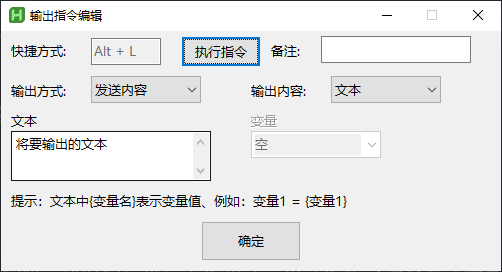
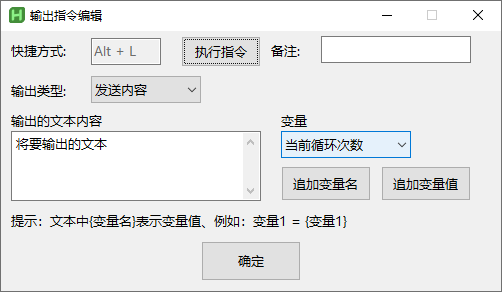
更新指令文档

diff --git a/Web/指令手册.md b/Web/指令手册.md
@@ -32,12 +32,6 @@
 ### 手柄按键说明
 - 使用前需安装 **vJoy**，详情查看「手柄功能指令」。
 
-### 勾选规则
-- **特殊按键**：Shift, Alt, Ctrl, Win, LShift, RShift, LAlt, RAlt, LCtrl, RCtrl, LWin, RWin
-- **普通按键**：除特殊按键以外的其他按键
-- **规则 1**：特殊按键可 **多选或不选**；普通按键只能 **单选或不选**。
-- **规则 2**：手柄按钮、摇杆只能单独选。
-
 ### 键盘按键检测
 1. 点击输入框。
 2. 按下目标按键/组合键。
@@ -196,14 +190,10 @@
 2. **粘贴**：使用Ctrl+V组合键粘贴内容。
 3. **Win粘贴**：调用Win系统接口粘贴内容。
 4. **临时提示**：使用ToolTip在鼠标指针旁显示内容（默认显示5s）。
-5. **复制到剪切板**：将输出内容复制到剪切板。
-6. **软件弹窗**：通过软件弹窗显示内容。
-7. **系统语音**：通过语音播输出内容。
-
-### 输出内容
-1. **文本**：只输出文本中的信息。
-2. **变量**：只输出变量值。
-3. **文本 + 变量**：输出文本内容 + 变量内容。
+5. **指令窗口**：将内容输出到指令显示窗口。
+6. **复制到剪切板**：将输出内容复制到剪切板。
+7. **软件弹窗**：通过软件弹窗显示内容。
+8. **系统语音**：通过语音播输出内容。
 
 ### 小技巧
 文本中可用 `{变量名}` 表示对应变量值。
@@ -243,13 +233,16 @@
 3. **自由贴**：调用RMT软件自由贴指令，将剪切板中的图片或文本贴在桌面上。
 4. **开启指令显示**：勾选指令显示开关，窗口显示软件运行的指令。
 5. **关闭指令显示**：取消勾选指令显示开关。
-6. **启用键鼠**：恢复键盘鼠标的正常输入（需要管理员身份运行软件）。
-7. **禁用键鼠**：禁用键盘鼠标的输入（需要管理员身份运行软件）。
-8. **休眠**：立即终止所有宏，并禁用软件的所有功能。
-9. **暂停所有宏**: 立即暂停所有宏。
-10. **恢复所有宏**: 恢复所有被暂停的宏。
-11. **终止所有宏**：强制终止所有正在运行的宏任务，不可恢复。
-12. **重载**：重新加载当前配置，撤销未保存的修改，恢复至最近一次应用状态。
+6. **显示菜单**：显示指定序号的菜单轮。
+7. **关闭菜单**：关闭菜单轮。
+8. **启用键鼠**：恢复键盘鼠标的正常输入（需要管理员身份运行软件）。
+9. **禁用键鼠**：禁用键盘鼠标的输入（需要管理员身份运行软件）。
+10. **休眠**：立即终止所有宏，并禁用软件的所有功能。
+11. **暂停所有宏**: 立即暂停所有宏。
+12. **恢复所有宏**: 恢复所有被暂停的宏。
+13. **终止所有宏**：强制终止所有正在运行的宏任务，不可恢复。
+14. **重载**：重新加载当前配置，撤销未保存的修改，恢复至最近一次应用状态。
+15. **关闭软件**：退出关闭若梦兔软件
 
 ---
 
@@ -282,7 +275,8 @@
 ![配置界面](Images/MacroCMD/BGMouse.png)
 
 ### 功能说明
-对指定窗口进行后台鼠标操作。
+对指定窗口进行后台鼠标操作，不影响真实键鼠操作
+（需要管理员权限运行软件，部分窗口该指令无效）
 
 ### 快捷键
 - **F1**：设置鼠标下窗口标题。
@@ -296,7 +290,21 @@
 4. **滚动数值**：滚轮滚动的数值。
 ---
 
-## 12. 变量
+## 12. 后台按键 (BGKey)
+
+**指令界面**  
+![配置界面](/RMT/Web/Images/MacroCMD/BGKey.png)  
+![配置界面](Images/MacroCMD/BGKey.png)
+
+### 功能说明
+对指定窗口进行后台按键操作。不影响真实键鼠操作
+（需要管理员权限运行软件，部分窗口该指令无效）
+
+### 窗口信息
+指令绑定的窗口信息
+---
+
+## 13. 变量
 
 **指令界面**  
 ![配置界面](/RMT/Web/Images/MacroCMD/Variable.png)  
@@ -318,7 +326,7 @@
 
 ---
 
-## 12. 变量提取
+## 14. 变量提取
 
 **指令界面**  
 ![配置界面](/RMT/Web/Images/MacroCMD/ExVariable.png)  
@@ -364,7 +372,7 @@
 
 ---
 
-## 13. 变量运算
+## 15. 变量运算
 
 **指令界面**  
 ![配置界面](/RMT/Web/Images/MacroCMD/Operation.png)  
@@ -379,7 +387,7 @@
 
 ---
 
-## 14.如果
+## 16.如果
 
 **指令界面**  
 ![配置界面](/RMT/Web/Images/MacroCMD/If.png)  
